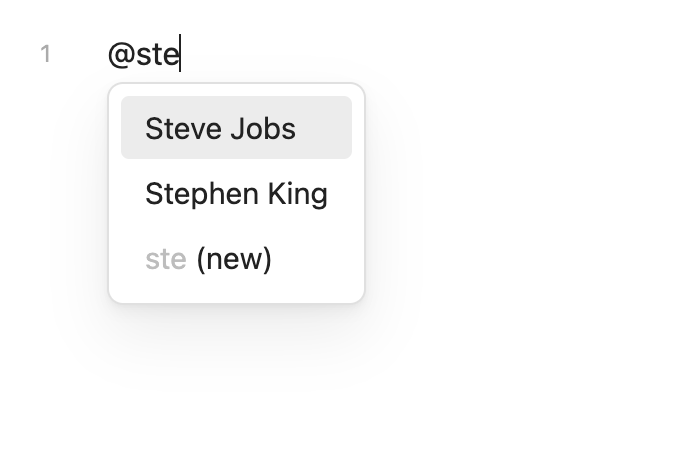
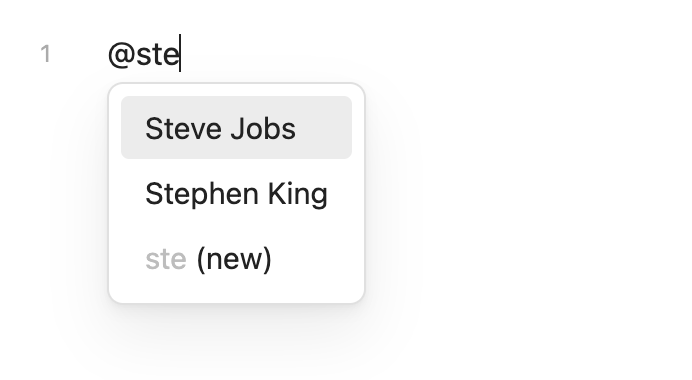
reduce images size

diff --git a/README.md b/README.md
@@ -46,7 +46,7 @@ For more information, please refer to the Dataview documentation of [Sources](ht
 
 Simply type `@` in a note, you'll see a list of suggestions of the people in your vault.
 
-![](images/suggestions.png)
+<img src="images/suggestions.png" width="330">
 
 People in the suggestions list are sorted by their last modified date from newest to oldest.
 The number of results is limited to 5, you can change this in the settings.
@@ -54,7 +54,7 @@ The number of results is limited to 5, you can change this in the settings.
 When you start typing more letters, a fuzzy search will be performed,
 updating the most relevant suggestions as you type.
 
-![](images/suggestions-ste.png)
+<img src="images/suggestions-ste.png" width="330">
 
 You can use the arrow keys or <kbd>⌃ n</kbd>, <kbd>⌃ p</kbd> to navigate through the suggestions.
 When you press Enter, the link to the selected note will be created.
@@ -64,7 +64,7 @@ When you press Enter, the link to the selected note will be created.
 If the person does not exist yet, the color of the suggestion is dimmed and has a `(new)` suffix,
 indicating that it will be created when you press Enter. This behavior could be disabled in the settings.
 
-![](images/create-person.png)
+<img src="images/create-person.png" width="330">
 
 The new note is create at the specified location in the settings.
 Upon creation, it opens in a split pane,
